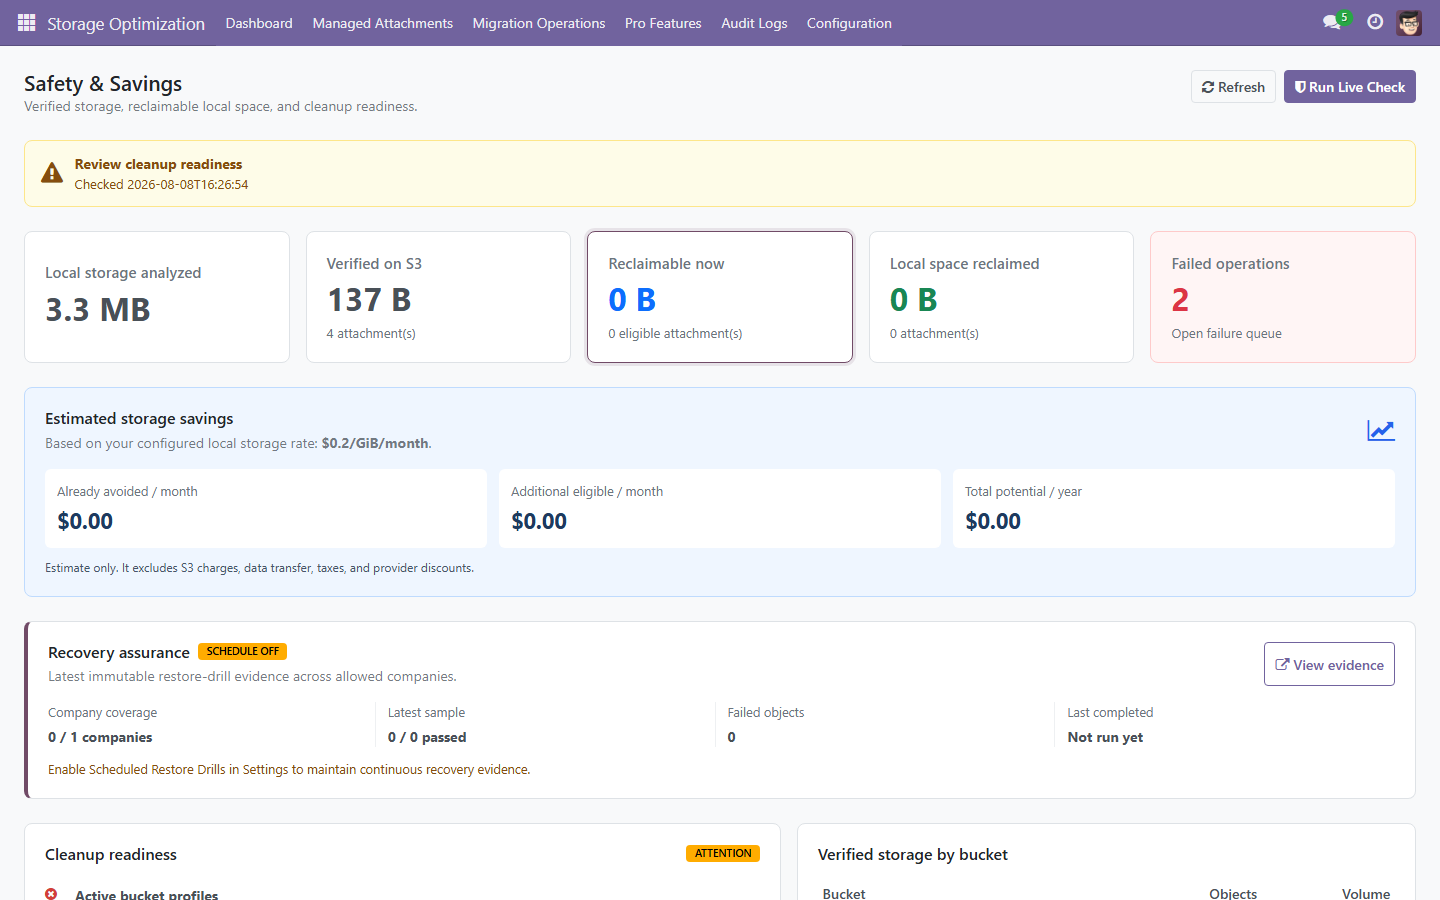
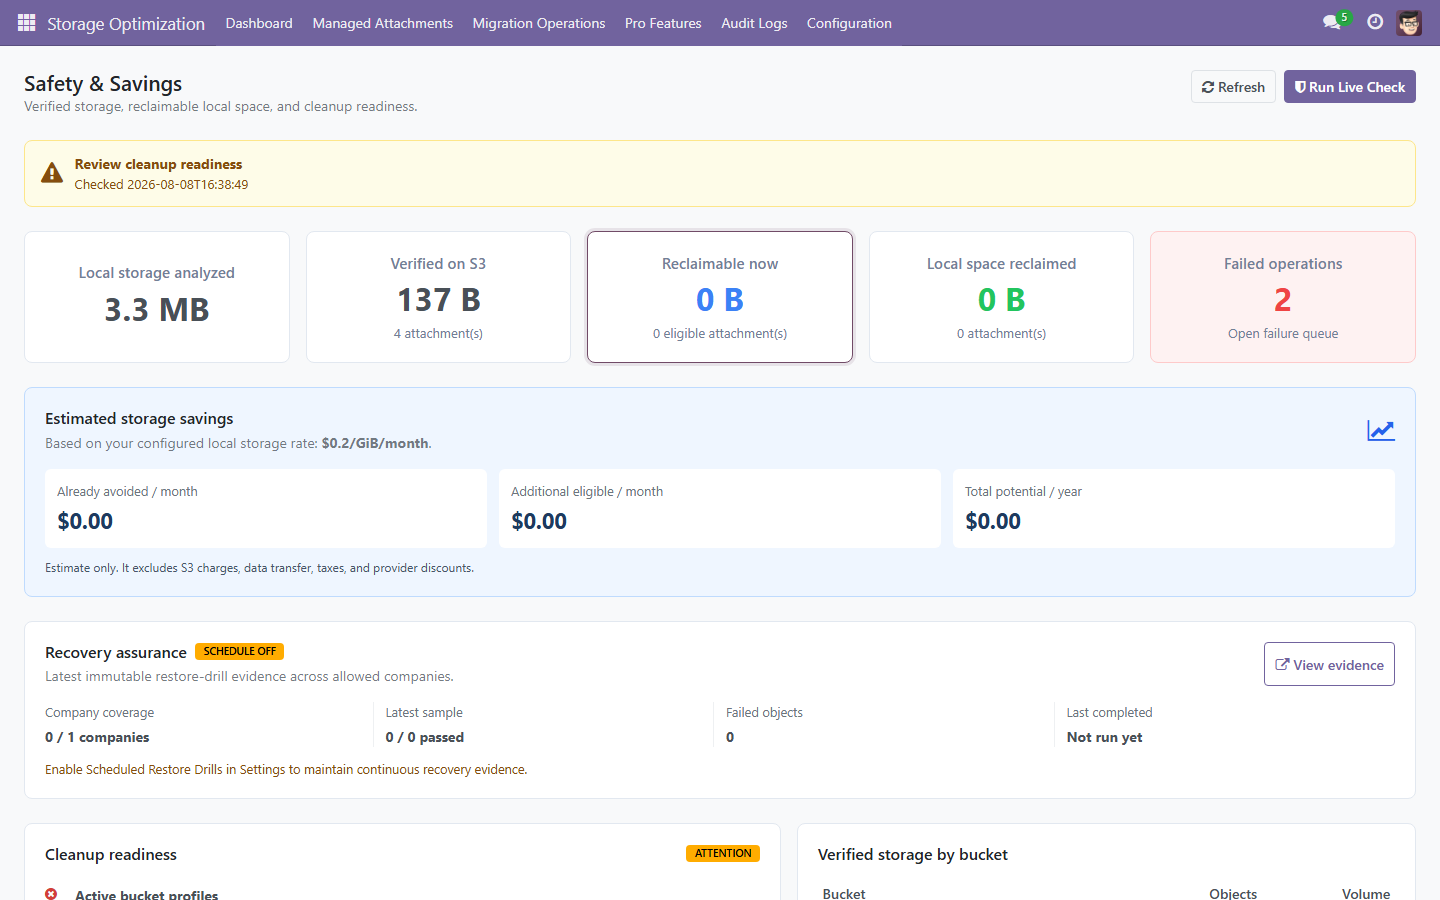
Align Pro dashboard visuals with Free

diff --git a/attachment_optimizer_pro/static/src/components/pro_dashboard/pro_dashboard.scss b/attachment_optimizer_pro/static/src/components/pro_dashboard/pro_dashboard.scss
@@ -1,10 +1,17 @@
 .o_pro_safety_dashboard {
     width: 100%;
+    max-width: none;
     margin: 0;
     padding: 24px;
     box-sizing: border-box;
     min-height: 100%;
     position: relative;
+}
+
+html .o_web_client .o_action_manager .o_pro_safety_dashboard {
+    width: 100%;
+    max-width: none;
+    margin: 0;
 }
 
 .o_pro_dashboard_header,
@@ -44,11 +51,12 @@
     min-width: 0;
     min-height: 124px;
     padding: 20px;
-    border: 1px solid #dee2e6;
+    border: 1px solid #e2e8f0;
     border-radius: 8px;
     background: var(--o-view-background-color, #fff);
     color: inherit;
-    text-align: left;
+    text-align: center;
+    align-items: center;
     display: flex;
     flex-direction: column;
     justify-content: center;
@@ -60,15 +68,15 @@
     font-variant-numeric: tabular-nums;
 }
 .o_pro_kpi_card small,
-.o_pro_kpi_label { color: var(--o-gray-600, #6c757d); }
+.o_pro_kpi_label { color: #718096; }
 .o_pro_kpi_label { font-size: .95rem; font-weight: 600; }
 .o_pro_kpi_action { cursor: pointer; transition: border-color .15s ease, box-shadow .15s ease; }
 .o_pro_kpi_action:hover,
 .o_pro_kpi_action:focus-visible { border-color: var(--o-brand-primary, #714b67); box-shadow: 0 0 0 3px rgba(113, 75, 103, .12); outline: 0; }
-.o_pro_kpi_primary strong { color: #0d6efd; }
-.o_pro_kpi_success strong { color: #198754; }
-.o_pro_kpi_danger { background: #fff5f5; border-color: #fecaca; }
-.o_pro_kpi_danger strong { color: #dc3545; }
+.o_pro_kpi_primary strong { color: #3b82f6; }
+.o_pro_kpi_success strong { color: #22c55e; }
+.o_pro_kpi_danger { background: #fef2f2; border-color: #fecaca; }
+.o_pro_kpi_danger strong { color: #ef4444; }
 
 .o_pro_savings_panel {
     margin-bottom: 24px;
@@ -104,8 +112,7 @@
 .o_pro_assurance_panel {
     margin-bottom: 24px;
     padding: 20px;
-    border: 1px solid #dee2e6;
-    border-left: 4px solid var(--o-brand-primary, #714b67);
+    border: 1px solid #e2e8f0;
     border-radius: 8px;
     background: var(--o-view-background-color, #fff);
 }
@@ -130,7 +137,7 @@
 .o_pro_assurance_hint { margin-top: 12px; color: #854d0e; font-size: .8rem; }
 .o_pro_assurance_error { color: #b42318; }
 .o_pro_dashboard_columns { display: grid; grid-template-columns: 1.1fr .9fr; gap: 16px; }
-.o_pro_panel { background: var(--o-view-background-color, #fff); border: 1px solid #dee2e6; border-radius: 8px; padding: 20px; }
+.o_pro_panel { background: var(--o-view-background-color, #fff); border: 1px solid #e2e8f0; border-radius: 8px; padding: 20px; }
 .o_pro_panel_header { align-items: center; margin-bottom: 12px; }
 .o_pro_check_list { display: flex; flex-direction: column; }
 .o_pro_check { display: grid; grid-template-columns: 20px 1fr; gap: 10px; padding: 10px 0; border-top: 1px solid #eef0f2; }

diff --git a/attachment_optimizer_pro/static/description/index.html b/attachment_optimizer_pro/static/description/index.html
@@ -96,6 +96,6 @@ For subsequent modules, update content inside sections only. Do not alter sectio
     </div>
 
     <!-- FOOTER -->
-    <div style="border:1px solid #e2e8f0; border-radius:16px; padding:32px 24px; margin:40px 0 16px; text-align:center;"><div style="font-size:14px; font-weight:700; color:#1e293b; text-transform:uppercase;">Attachment Optimizer Pro</div><p style="font-size:13px; color:#64748b; line-height:1.6;">Automated, verified S3-compatible attachment lifecycle management for Odoo.</p><div style="display:inline-block; border:2px solid #4f46e5; color:#4f46e5; font-weight:700; font-size:13px; padding:10px 28px; border-radius:8px;">US$49 · One-Time · No Subscription</div><p style="font-size:11px; color:#94a3b8; margin:20px 0 0;">Version 17.0.1.0.17 · Built and maintained by FoxPink</p></div>
+    <div style="border:1px solid #e2e8f0; border-radius:16px; padding:32px 24px; margin:40px 0 16px; text-align:center;"><div style="font-size:14px; font-weight:700; color:#1e293b; text-transform:uppercase;">Attachment Optimizer Pro</div><p style="font-size:13px; color:#64748b; line-height:1.6;">Automated, verified S3-compatible attachment lifecycle management for Odoo.</p><div style="display:inline-block; border:2px solid #4f46e5; color:#4f46e5; font-weight:700; font-size:13px; padding:10px 28px; border-radius:8px;">US$49 · One-Time · No Subscription</div><p style="font-size:11px; color:#94a3b8; margin:20px 0 0;">Version 17.0.1.0.18 · Built and maintained by FoxPink</p></div>
   </div>
 </section>

diff --git a/attachment_optimizer_pro/__manifest__.py b/attachment_optimizer_pro/__manifest__.py
@@ -1,6 +1,6 @@
 {
     "name": "Attachment Optimizer Pro",
-    "version": "17.0.1.0.17",
+    "version": "17.0.1.0.18",
     "category": "Storage",
     "summary": "Automation, cleanup, routing and lifecycle for S3-compatible attachment storage.",
     "description": """

diff --git a/README.md b/README.md
@@ -8,7 +8,7 @@ Only update product content, version, links, compatibility status, screenshots, 
 
 ![Attachment Optimizer Pro](attachment_optimizer_pro/static/description/preview.png)
 
-**Version:** 17.0.1.0.17 -- **License:** OPL-1 -- **Publisher:** FoxPink -- Maintained for **Odoo 17.0**
+**Version:** 17.0.1.0.18 -- **License:** OPL-1 -- **Publisher:** FoxPink -- Maintained for **Odoo 17.0**
 
 ---
 
